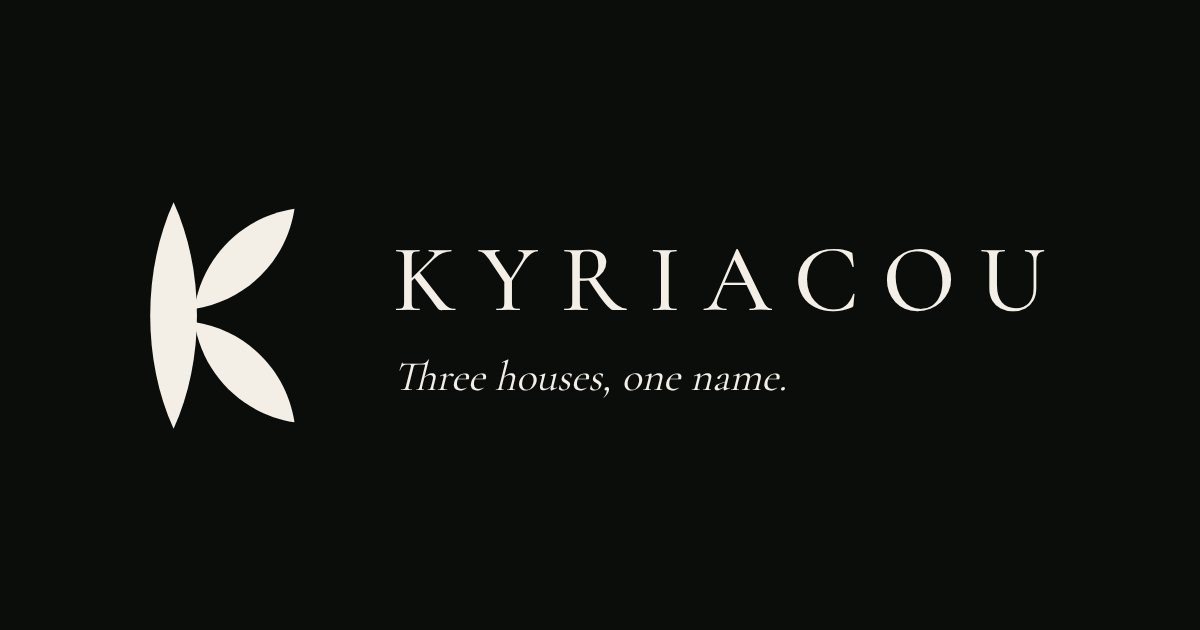
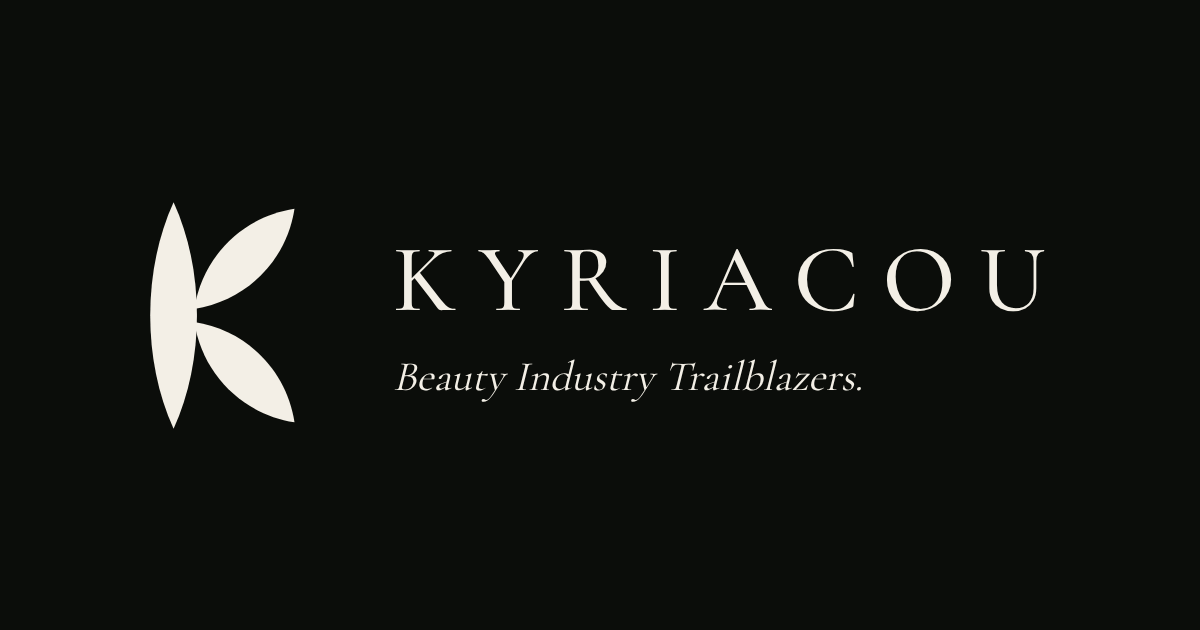
Hero tagline: Beauty Industry Trailblazers
Claude-Session: https://claude.ai/code/session_017ekFvMak9MiKypTDR1bbaR

Changed region(s): [[0.3083, 0.573, 0.7092, 0.6333]]

diff --git a/index.html b/index.html
@@ -6,7 +6,7 @@
 <link rel="canonical" href="https://kyriacouco.com/">
 <meta property="og:type" content="website">
 <meta property="og:title" content="Kyriacou">
-<meta property="og:description" content="Three houses, one name. A privately held beauty and wellness company in the Hudson Valley.">
+<meta property="og:description" content="Beauty Industry Trailblazers. A privately held beauty and wellness company in the Hudson Valley.">
 <meta property="og:url" content="https://kyriacouco.com/">
 <meta property="og:image" content="https://kyriacouco.com/og-image.png">
 <meta name="twitter:card" content="summary_large_image">
@@ -186,7 +186,7 @@ a:focus-visible,button:focus-visible{outline:2px solid var(--sage-2);outline-off
       <div style="margin-top:38px"><svg class="mark" viewBox="40 10 134 180" xmlns="http://www.w3.org/2000/svg" aria-hidden="true"><path d="M0 -50 C 22 -20 22 20 0 50 C -22 20 -22 -20 0 -50" transform="translate(70 100) scale(1 1.6)"/><path d="M0 -50 C 22 -20 22 20 0 50 C -22 20 -22 -20 0 -50" transform="translate(120 60) rotate(45)"/><path d="M0 -50 C 22 -20 22 20 0 50 C -22 20 -22 -20 0 -50" transform="translate(120 140) rotate(-45)"/></svg></div>
       <h1 class="hero__name">Kyriacou</h1>
       <div class="hero__rule" aria-hidden="true"></div>
-      <p class="hero__thesis">Three houses, one name.</p>
+      <p class="hero__thesis">Beauty Industry Trailblazers.</p>
       <p class="hero__lede">A privately held beauty and wellness company in the Hudson Valley. Each house is built, staffed and run as an independent business under a common standard.</p>
       <ul class="hero__houses">
         <li><a href="#cosmetics">Cosmetics</a></li>
